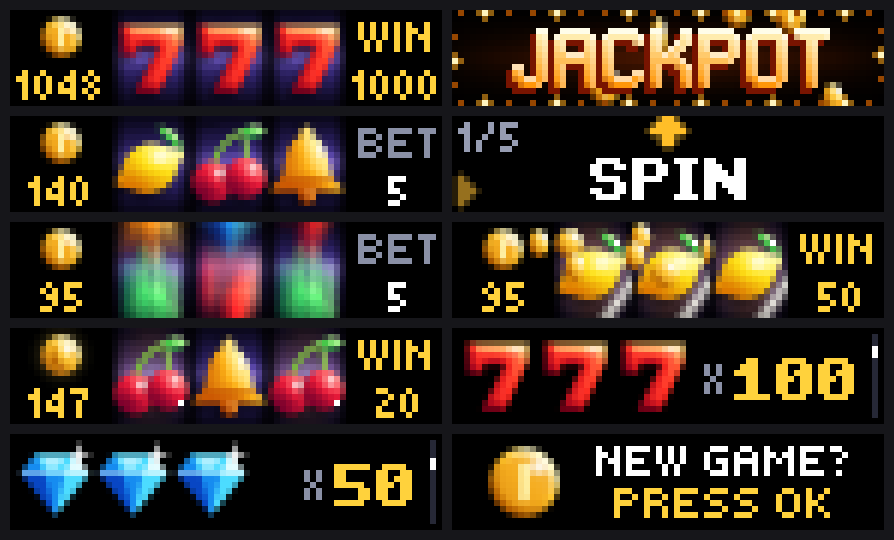
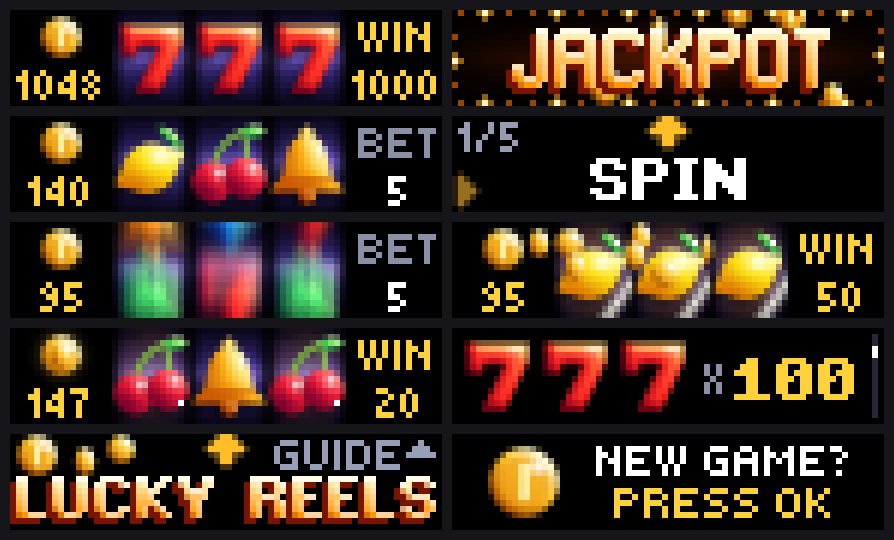
Lucky Reels: main screen with Start to enter and the knob for the guide

Changed region(s): [[0.0, 0.8, 0.5134, 0.9778]]

diff --git a/lucky_reels/src/main.js b/lucky_reels/src/main.js
@@ -209,6 +209,7 @@ el.timeout = 30;
 return wire(el);
 }
 let bookAt = -1, bookBacks = 0;     // the page on show (-1: no guide); Back presses the guide has taken
+let bookShut = false;               // Back on the first page: the book is to be closed
 const pageEl = (i, on) => film("k_p" + i, "guide_" + i, on ? 0 : OFF, 0, 20, true);
 function bookEls(at) {
 const els = [];
@@ -217,13 +218,14 @@ return els;
 }
 function bookBack() {               // (for onBack) true: the guide has taken the key
 if (bookAt < 0) return false;
-if (bookAt === 0) return false;   // on the first page Back leaves the app
+if (bookAt === 0) bookShut = true;               // on the first page Back closes the book
 bookBacks++;
 return true;
 }
 async function book(under) {
 if (!live.get("k_p0")) await put(bookEls(-1));
 bookAt = 0;
+bookShut = false;
 onPage = "book";
 await put([pageEl(0, true)]);
 if (under) await wipe([under]);
@@ -235,7 +237,7 @@ await nap(50000);
 const steps = ctl.n + ctl.turn - bookBacks, any = ctl.n || ctl.turn || bookBacks;
 ctl.n = ctl.turn = bookBacks = 0;
 ctl.ok = ctl.start = false;
-if (stopped) break;
+if (stopped || bookShut) break;
 if (!any) {
 await put(bookEls(bookAt));                  // nothing was pressed: the pictures are only kept alive
 continue;
@@ -341,9 +343,12 @@ rigAt = 0;
 }
 async function guide(under) {
 await book(under);
-if (stopped) return;
+if (stopped || st.g) return;
 st.g = true;
 await save();
+}
+function titleEls() {
+return [rect("t_bg", 0, 0, 72, 16, BLACK, 0), film("t_pic", "title", 0, 0, 1)].concat(bookEls(-1));
 }
 function cardEls() {                // the card that says so, for a moment
 return [rect("c_bg", 0, 0, 72, 16, BLACK, 0), film("c_coin", "coin_big", 6, 2, 1),
@@ -549,7 +554,17 @@ return true;
 };
 const IDLE = 5000;                  // a page at rest looks at the settings again this often (nothing is drawn for that)
 async function step() {
-if (mode === "game") {
+if (mode === "title") {                          // the main screen: it waits for a key
+await draw("title", titleEls());
+await nap(IDLE);
+const k = keys();
+if (k.start) {                                 // Start: into the game
+if (st.coins < 1) mode = "new";
+else await opening(false);
+} else if (k.ok) {                             // OK: the guide; closing it leads back here
+await guide("");
+}
+} else if (mode === "game") {
 await draw("game", gameEls());
 await nap(dirty ? 1500 : IDLE);                 // (a new bet is kept once the knob has rested a moment)
 const k = keys();
@@ -604,7 +619,7 @@ if (fresh) await startOver();
 if (D.start !== undefined) st.coins = D.start;
 while (BETS.indexOf(st.bet) > 0 && st.bet > st.coins) st.bet = BETS[BETS.indexOf(st.bet) - 1];
 shown = st.coins;
-if (!st.g && !fresh) await put(bookEls(-1));      // (first use: the guide's pages are made now, off-screen)
+if (!fresh) await put(bookEls(-1));              // (the guide's pages are made now, off-screen, with the mark over them)
 await until(t0 + SPLASH_MS);
 if (stopped) return;
 let under = true;                                // the mark is still on the screen
@@ -620,14 +635,10 @@ await guide(under ? "zz_sp" : "");
 under = false;
 if (stopped) return;
 }
-if (st.coins < 1) {
-mode = "new";
-await draw("new", newEls());
+mode = "title";                                  // every start arrives on the main screen
+await draw("title", titleEls());
 if (under) await wipe(["zz_sp"]);
 keys();
-} else {
-await opening(under);
-}
 let settingsDue = Date.now() + IDLE;
 const began = Date.now();
 while (!stopped) {
@@ -641,7 +652,7 @@ await draw("card", cardEls());
 await put(bookEls(-1));                  // (the guide's pages are made while the card is read)
 await sleep(1500);
 if (!stopped) await guide("");
-if (!stopped) await opening(false);
+mode = "title";
 continue;
 }
 }

diff --git a/lucky_reels/CATALOG.md b/lucky_reels/CATALOG.md
@@ -19,7 +19,8 @@ A three-reel slot machine for your desk. The coins are play coins only: nothing 
 ## Controls
 
 - The controls by their names: Start is the big button on top, OK is a press of the knob, Turn is turning the knob, Back is the Back button.
-- The first time you open the app, a short guide shows them: five numbered pages, one control on each, with what it does in large letters under an arrow that points at it. Start, OK or a turn forward goes to the next page; a turn back or Back goes to the page before (Back on the first page leaves the app). On the last page any key starts the game, and does nothing else. The guide does not come again by itself; Start over in the settings brings it back.
+- The app opens on its main screen. Start enters the game. OK opens the guide. Back leaves the app.
+- The guide: five numbered pages, one control on each, with what it does in large letters under an arrow that points at it. Start, OK or a turn forward goes to the next page; a turn back or Back goes to the page before. Any key on the last page, or Back on the first, closes it and leads back to the main screen. The first time you open the app the guide opens by itself.
 - The machine: Start spins. Turn the knob to set the bet: 1, 2, 5, 10 or 25 coins, never more than you have. OK opens the info pages. Back leaves the app.
 - While a win is still counting: Start begins the next spin at once.
 - Info pages: your coins and your best win, the pay table, the number of spins. Turn the knob to go through them. OK, Start or Back returns to the machine.

diff --git a/lucky_reels/README.md b/lucky_reels/README.md
@@ -23,7 +23,8 @@ A three-reel slot machine for your desk. The coins are play coins only: nothing 
 ## Controls
 
 - The controls by their names: Start is the big button on top, OK is a press of the knob, Turn is turning the knob, Back is the Back button.
-- The first time you open the app, a short guide shows them: five numbered pages, one control on each, with what it does in large letters under an arrow that points at it. Start, OK or a turn forward goes to the next page; a turn back or Back goes to the page before (Back on the first page leaves the app). On the last page any key starts the game, and does nothing else. The guide does not come again by itself; Start over in the settings brings it back.
+- The app opens on its main screen. Start enters the game. OK opens the guide. Back leaves the app.
+- The guide: five numbered pages, one control on each, with what it does in large letters under an arrow that points at it. Start, OK or a turn forward goes to the next page; a turn back or Back goes to the page before. Any key on the last page, or Back on the first, closes it and leads back to the main screen. The first time you open the app the guide opens by itself.
 - The machine: Start spins. Turn the knob to set the bet: 1, 2, 5, 10 or 25 coins, never more than you have. OK opens the info pages. Back leaves the app.
 - While a win is still counting: Start begins the next spin at once.
 - Info pages: your coins and your best win, the pay table, the number of spins. Turn the knob to go through them. OK, Start or Back returns to the machine.
